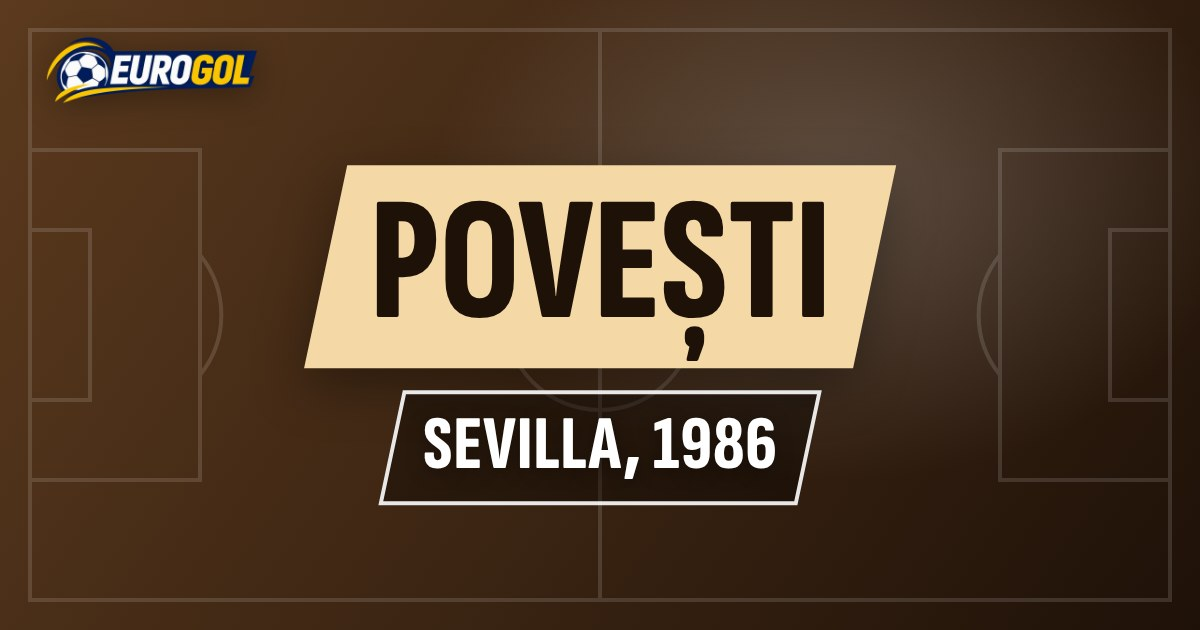
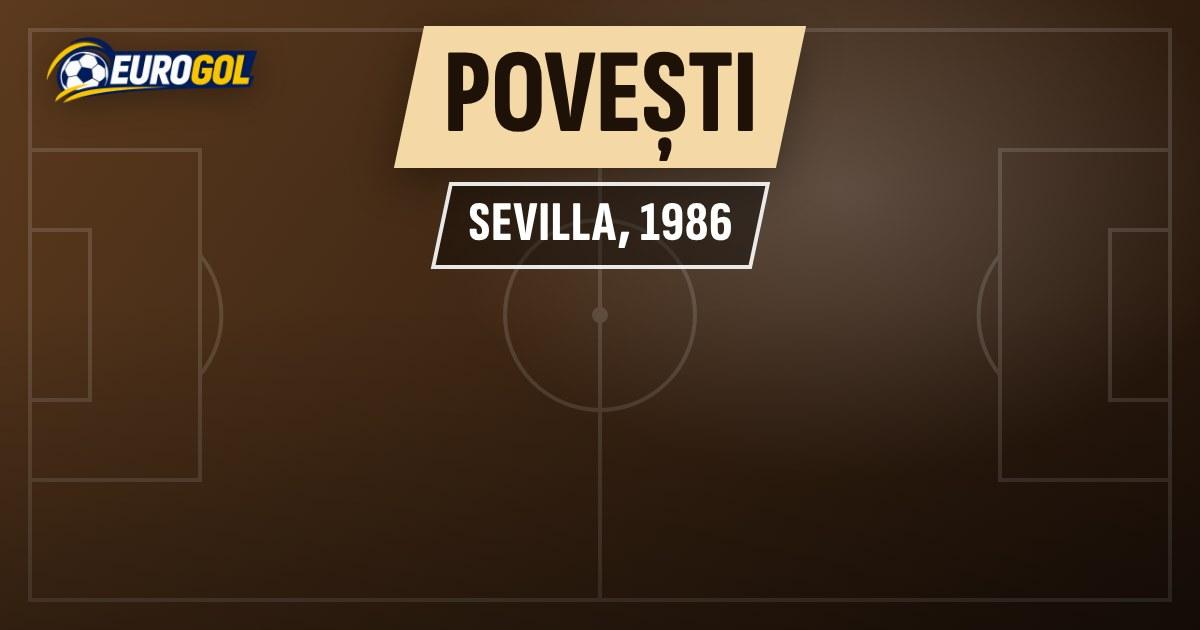
Tema 2.0.0: asezarea de pe mobil ca la sempremilan (titlul peste imagine 5:3, carduri-lista 5:4, Pe scurt dupa prima sectiune); coperti cu continutul in zona sigura (sus, la mijloc)

diff --git a/tema/eurogol/style.css b/tema/eurogol/style.css
@@ -3,7 +3,7 @@ Theme Name: Eurogol
 Theme URI: https://eurogol.ro
 Author: Eurogol
 Description: Tema site-ului eurogol.ro – fotbal românesc, european și sud-american. Prima pagină cu un articol mare și patru mai mici, secțiuni pe competiții, coloana „Pe scurt” și importul automat al articolelor din GitHub.
-Version: 1.9.0
+Version: 2.0.0
 Requires at least: 6.4
 Requires PHP: 7.4
 License: GNU General Public License v2 or later
@@ -105,26 +105,24 @@ button { font: inherit; cursor: pointer; }
 .eg-doua-coloane { display: grid; grid-template-columns: minmax(0, 2fr) minmax(0, 1fr); gap: 20px; margin-top: 20px; }
 .eg-doua-coloane:first-child { margin-top: 10px; }
 
-/* ---------- Blocul de sus: 1 mare + 4 ----------
-   Coperțile au text pe ele (rubrica, sigle, scor), deci imaginea apare întreagă, nedecupată,
-   iar titlul stă dedesubt, pe o bandă închisă – nu peste imagine. */
-.eg-sus { display: grid; grid-template-columns: 2fr 1fr 1fr; grid-template-rows: auto auto; gap: 10px; }
-.eg-coperta { position: relative; border-radius: var(--eg-raza); overflow: hidden; background: #0a1838; }
-.eg-coperta-mare { grid-row: span 2; }
-.eg-coperta > a { display: flex; flex-direction: column; height: 100%; color: #fff; }
-.eg-coperta-img { display: block; overflow: hidden; flex: none; }
-.eg-coperta .eg-img { display: block; width: 100%; height: auto; aspect-ratio: 1200 / 630; object-fit: cover; transition: transform .4s; }
+/* ---------- Blocul de sus: 1 mare + 4 (ca la sempremilan.com) ----------
+   Titlul stă peste imagine, pe un gradient închis. Coperțile au tot conținutul în jumătatea de sus, în mijloc,
+   deci nimic nu se acoperă (vezi unelte/coperta-stire.js, „zona sigură”). */
+.eg-sus { display: grid; grid-template-columns: 2fr 1fr 1fr; grid-template-rows: 1fr 1fr; gap: 10px; }
+.eg-coperta { position: relative; border-radius: var(--eg-raza); overflow: hidden; background: #0a1838; aspect-ratio: 5 / 3; }
+.eg-coperta-mare { grid-row: span 2; aspect-ratio: auto; }
+.eg-coperta > a { display: block; height: 100%; color: #fff; }
+.eg-coperta-img { position: absolute; inset: 0; overflow: hidden; }
+.eg-coperta .eg-img { position: absolute; inset: 0; width: 100%; height: 100%; object-fit: cover; object-position: center top; transition: transform .4s; }
 .eg-coperta:hover .eg-img { transform: scale(1.04); }
-.eg-coperta-text { flex: 1; display: flex; flex-direction: column; align-items: flex-start; gap: 5px; padding: 10px 12px 12px;
-	background: linear-gradient(180deg, #0f2250 0%, #0a1838 100%); border-top: 3px solid var(--eg-culoare); }
-.eg-coperta-titlu { font-weight: 600; font-size: 15px; line-height: 1.28;
+.eg-coperta > a::after { content: ""; position: absolute; inset: 0; background: linear-gradient(to top, rgba(0,0,0,.92) 0%, rgba(0,0,0,.6) 30%, rgba(0,0,0,.1) 55%, rgba(0,0,0,0) 65%); }
+.eg-coperta-text { position: absolute; left: 0; right: 0; bottom: 0; z-index: 1; padding: 10px 12px 12px; display: flex; flex-direction: column; align-items: flex-start; gap: 4px; }
+.eg-coperta-titlu { font-weight: 600; font-size: 15px; line-height: 1.25; text-shadow: 0 1px 3px rgba(0,0,0,.7);
 	display: -webkit-box; -webkit-box-orient: vertical; -webkit-line-clamp: 3; line-clamp: 3; overflow: hidden; }
-.eg-coperta-mare .eg-coperta-text { padding: 14px 18px 18px; gap: 8px; justify-content: center; }
-.eg-coperta-mare .eg-coperta-titlu { font-size: 30px; line-height: 1.2; -webkit-line-clamp: 4; line-clamp: 4; }
+.eg-coperta-mare .eg-coperta-text { padding: 16px 18px 20px; gap: 8px; }
+.eg-coperta-mare .eg-coperta-titlu { font-size: 26px; -webkit-line-clamp: 4; line-clamp: 4; }
 .eg-coperta .eg-meta, .eg-coperta .eg-meta .eg-autor { color: #fff; }
-.eg-coperta .eg-meta { opacity: .85; margin-top: auto; }
 .eg-coperta .eg-eticheta { font-size: 10px; padding: 2px 7px; }
-.eg-coperta a:hover .eg-coperta-titlu { color: #ffd23f; }
 
 /* Imaginea lipsă: fundal în culoarea site-ului cu numele lui. */
 .eg-img-gol { display: flex !important; align-items: center; justify-content: center; background: linear-gradient(135deg, var(--eg-culoare), var(--eg-inchis)); color: rgba(255,255,255,.35); aspect-ratio: 1200 / 630; width: 100%; }
@@ -137,15 +135,14 @@ button { font: inherit; cursor: pointer; }
 .eg-grila-2 { display: grid; grid-template-columns: repeat(2, minmax(0, 1fr)); gap: 20px; }
 .eg-card { background: var(--eg-alb); border-radius: var(--eg-raza); overflow: hidden; box-shadow: 0 1px 2px rgba(0,0,0,.04); }
 .eg-card-img { display: block; overflow: hidden; background: #ddd; }
-.eg-card-img .eg-img { width: 100%; aspect-ratio: 1200 / 630; object-fit: cover; transition: transform .4s; }
+.eg-card-img .eg-img { width: 100%; aspect-ratio: 5 / 3; object-fit: cover; object-position: center top; transition: transform .4s; }
 .eg-card:hover .eg-card-img .eg-img { transform: scale(1.04); }
 .eg-card-corp { padding: 10px; }
 .eg-card-titlu { font-weight: 600; }
 .eg-card-mare .eg-card-titlu { font-size: 20px; line-height: 1.33; margin: 4px 0 10px; }
 .eg-card-rezumat { margin: 0 0 6px; font-size: 14px; line-height: 1.4; color: var(--eg-text-2); }
-.eg-card-mic { display: grid; grid-template-columns: 150px minmax(0, 1fr); align-items: start; }
-.eg-card-mic .eg-card-img .eg-img { width: 100%; height: auto; aspect-ratio: 1200 / 630; object-fit: cover; }
-.eg-card-mic .eg-card-img { margin: 10px 0 10px 10px; border-radius: 4px; }
+.eg-card-mic { display: grid; grid-template-columns: 124px minmax(0, 1fr); align-items: start; }
+.eg-card-mic .eg-card-img .eg-img { width: 100%; height: auto; aspect-ratio: 5 / 4; object-fit: cover; object-position: center top; }
 .eg-card-mic .eg-img-gol span { font-size: 20px; }
 .eg-card-mic .eg-card-titlu { font-size: 14px; line-height: 1.2; margin-bottom: 8px; }
 .eg-meta { font-size: 12px; color: var(--eg-text-2); }
@@ -256,7 +253,7 @@ a.eg-eticheta:hover { color: #fff; background: var(--eg-inchis); }
 @media (max-width: 960px) {
 	.eg-doua-coloane { grid-template-columns: minmax(0, 1fr); }
 	.eg-sus { grid-template-columns: 1fr 1fr; grid-template-rows: auto; }
-	.eg-coperta-mare { grid-column: 1 / -1; grid-row: auto; }
+	.eg-coperta-mare { grid-column: 1 / -1; grid-row: auto; aspect-ratio: 5 / 3; }
 	.eg-cutie { margin-top: 0; border-radius: 0; }
 
 	/* Antetul pe mobil: meniu în stânga, logo la mijloc, căutare în dreapta. */
@@ -289,18 +286,24 @@ a.eg-eticheta:hover { color: #fff; background: var(--eg-inchis); }
 
 /* ---------- Telefon ---------- */
 @media (max-width: 600px) {
-	.eg-main { padding: 8px 8px 24px; }
-	.eg-sus { gap: 8px; }
-	.eg-coperta-mare .eg-coperta-titlu { font-size: 21px; }
-	.eg-coperta-mare .eg-coperta-text { padding: 12px 14px 14px; }
-	.eg-coperta:not(.eg-coperta-mare) .eg-coperta-titlu { font-size: 14px; }
+	.eg-main { padding: 10px 10px 24px; }
+	.eg-sus { gap: 4px; }
+	.eg-coperta-mare .eg-coperta-titlu { font-size: 20px; line-height: 1.2; -webkit-line-clamp: 3; line-clamp: 3; }
+	.eg-coperta-mare .eg-coperta-text { padding: 10px 14px 12px; gap: 4px; }
+	.eg-coperta-mare .eg-eticheta { display: none; }
+	.eg-coperta-mare .eg-meta { font-size: 12px; }
+	.eg-coperta:not(.eg-coperta-mare) .eg-coperta-titlu { font-size: 13px; line-height: 1.2; -webkit-line-clamp: 2; line-clamp: 2; }
 	.eg-coperta:not(.eg-coperta-mare) .eg-eticheta { display: none; }
-	.eg-coperta:not(.eg-coperta-mare) .eg-coperta-text { padding: 8px 10px 10px; }
+	.eg-coperta:not(.eg-coperta-mare) .eg-coperta-text { padding: 6px 8px 8px; gap: 2px; }
 	.eg-coperta:not(.eg-coperta-mare) .eg-meta { font-size: 11px; }
-	.eg-card-mic { grid-template-columns: 128px minmax(0, 1fr); }
-	.eg-grila-2 { grid-template-columns: minmax(0, 1fr); gap: 14px; }
+	.eg-grila-2 { grid-template-columns: minmax(0, 1fr); gap: 12px; }
 	.eg-card-mare .eg-card-titlu { font-size: 19px; }
-	.eg-titlu-sectiune { font-size: 21px; }
+	.eg-card-mare .eg-card-corp { padding: 12px 14px 14px; }
+	.eg-card-mic { grid-template-columns: 120px minmax(0, 1fr); }
+	.eg-card-mic .eg-card-titlu { font-size: 15px; line-height: 1.25; margin-bottom: 8px; }
+	.eg-card-mic .eg-card-corp { padding: 8px 10px; }
+	.eg-titlu-sectiune { font-size: 21px; margin-bottom: 14px; }
+	.eg-sectiune + .eg-sectiune { margin-top: 26px; }
 	.eg-articol { padding: 18px 16px 22px; }
 	.eg-articol-coperta { margin: 0 -16px 20px; }
 	.eg-articol-titlu { font-size: 26px; }
@@ -309,6 +312,13 @@ a.eg-eticheta:hover { color: #fff; background: var(--eg-inchis); }
 	.eg-text h2, .eg-text h3 { font-size: 20px; }
 	.eg-subsol-negru .eg-retele { margin-left: 0; }
 	.eg-404-scor { font-size: 84px; }
+	.eg-doar-desktop { display: none; }
+}
+/* „Pe scurt” apare pe telefon după prima secțiune (ca „Also in the news”), pe desktop în coloana din dreapta. */
+.eg-doar-mobil { display: none; }
+@media (max-width: 960px) {
+	.eg-doar-mobil { display: block; margin-top: 26px; }
+	.eg-coloana .eg-pe-scurt-bloc { display: none; }
 }
 
 @media (prefers-reduced-motion: reduce) {

diff --git a/unelte/coperta-stire.js b/unelte/coperta-stire.js
@@ -107,43 +107,35 @@ body { width: 1200px; height: 630px; overflow: hidden; color: #fff; font-family:
 .fundal { position: absolute; inset: 0; background-size: cover; background-position: center; filter: saturate(.85); }
 .fundal::after { content: ''; position: absolute; inset: 0; background: linear-gradient(125deg, ${c1}e6 0%, ${c2}cc 55%, ${c2}99 100%); }
 .marca { position: absolute; left: 44px; top: 36px; height: 70px; z-index: 3; filter: drop-shadow(0 6px 16px rgba(0,0,0,.35)); }
-.fata { position: absolute; left: -10px; bottom: 0; width: 600px; height: 600px; z-index: 1; }
-.dreapta { position: absolute; right: 56px; top: 50%; transform: translateY(-46%); z-index: 2; display: flex; flex-direction: column; align-items: flex-end; gap: 22px; max-width: ${fata ? 640 : 1000}px; }
-.rand-banda { display: flex; align-items: center; gap: 22px; }
-.emblema { width: 132px; height: 132px; flex: none; border-radius: 50%; background: #fff; display: flex; align-items: center; justify-content: center; box-shadow: 0 14px 34px rgba(0,0,0,.35); }
+.fata { position: absolute; left: 150px; top: 10px; width: 540px; height: 540px; z-index: 1; }
+/* ZONA SIGURĂ (după sempremilan.com pe mobil): titlul site-ului stă peste jumătatea de jos a imaginii,
+   iar miniaturile din liste (5:4) arată doar mijlocul (x 210–990). Tot conținutul stă sus, în mijloc: x 210–990, y 30–310. */
+.dreapta { position: absolute; left: 50%; top: 26px; transform: translateX(-50%); z-index: 2; display: flex; flex-direction: column; align-items: center; gap: 14px; width: 780px; }
+.cu-fata .dreapta { left: 600px; transform: none; width: 370px; top: 40px; }
+.rand-banda { display: flex; align-items: center; justify-content: center; gap: 16px; max-width: 100%; }
+.emblema { width: 92px; height: 92px; flex: none; border-radius: 50%; background: #fff; display: flex; align-items: center; justify-content: center; box-shadow: 0 10px 26px rgba(0,0,0,.35); }
 .emblema img { width: 74%; height: 74%; object-fit: contain; }
-.banda { font-weight: 800; font-size: 160px; line-height: .95; text-transform: uppercase; text-align: right; white-space: nowrap;
-	padding: 16px 44px 20px; background: ${accent}; color: ${c2}; transform: skewX(-12deg); box-shadow: 0 18px 50px rgba(0,0,0,.35); }
+.banda { font-weight: 800; font-size: 120px; line-height: .95; text-transform: uppercase; white-space: nowrap;
+	padding: 12px 34px 16px; background: ${accent}; color: ${c2}; transform: skewX(-12deg); box-shadow: 0 14px 40px rgba(0,0,0,.35); }
 .banda > span, .sub > span { display: inline-block; transform: skewX(12deg); }
-.sub { font-weight: 800; font-size: 68px; text-transform: uppercase; letter-spacing: 1px; text-shadow: 0 4px 18px rgba(0,0,0,.35);
-	background: rgba(0,0,0,.35); border: 4px solid rgba(255,255,255,.9); padding: 6px 28px 10px; transform: skewX(-12deg); }
-.cluburi { display: flex; align-items: center; gap: 26px; }
-.sigla { width: 196px; height: 196px; border-radius: 50%; background: rgba(255,255,255,.96); display: flex; align-items: center; justify-content: center; box-shadow: 0 14px 34px rgba(0,0,0,.35); }
+.sub { font-weight: 800; font-size: 56px; text-transform: uppercase; letter-spacing: 1px; white-space: nowrap;
+	background: rgba(0,0,0,.4); border: 4px solid rgba(255,255,255,.9); padding: 4px 24px 8px; transform: skewX(-12deg); }
+.cluburi { display: flex; align-items: center; justify-content: center; gap: 22px; }
+.sigla { width: 150px; height: 150px; border-radius: 50%; background: rgba(255,255,255,.96); display: flex; align-items: center; justify-content: center; box-shadow: 0 10px 26px rgba(0,0,0,.35); }
 .sigla img { width: 74%; height: 74%; object-fit: contain; }
-.scor { display: flex; gap: 10px; font-weight: 800; font-size: 128px; line-height: 1; }
-.scor span { background: rgba(0,0,0,.45); border: 3px solid rgba(255,255,255,.3); padding: 4px 22px 8px; }
-.vs { font-weight: 800; font-size: 80px; opacity: .85; }
-/* Cu sigle, ele vin primele (sus), banda dedesubt, mai mică. */
-.cu-cluburi .banda { font-size: 104px; padding: 12px 38px 16px; }
-.cu-cluburi .emblema { width: 108px; height: 108px; }
-.cu-cluburi .sub { font-size: 56px; }
-/* Fără portret: totul la mijloc și mai mare, ca să umple coperta (pe telefon cardurile sunt mici). */
-.centrat .dreapta { right: auto; left: 50%; transform: translate(-50%, -44%); align-items: center; max-width: 1080px; }
-.centrat .banda { font-size: 176px; }
-.centrat .sub { font-size: 76px; }
-.centrat .sigla { width: 230px; height: 230px; }
-.centrat .scor { font-size: 150px; }
-.centrat .emblema { width: 150px; height: 150px; }
-.centrat.cu-cluburi .banda { font-size: 116px; }
-.centrat.cu-cluburi .emblema { width: 118px; height: 118px; }
-.centrat .cluburi { gap: 34px; }
-/* Sigle + subtitlu: siglele se micșorează, ca banda să rămână mare. */
-.centrat.cu-cluburi.cu-sub .sigla { width: 168px; height: 168px; }
-.centrat.cu-cluburi.cu-sub .cluburi { gap: 26px; }
-.centrat.cu-cluburi.cu-sub .vs { font-size: 64px; }
-.centrat.cu-cluburi.cu-sub .banda { font-size: 104px; }
-.centrat.cu-cluburi.cu-sub .dreapta { gap: 16px; }
-</style></head><body class="${[cluburi.length ? 'cu-cluburi' : '', fata ? '' : 'centrat', d.subtitlu && !scor ? 'cu-sub' : ''].join(' ')}">
+.scor { display: flex; gap: 8px; font-weight: 800; font-size: 110px; line-height: 1; }
+.scor span { background: rgba(0,0,0,.5); border: 3px solid rgba(255,255,255,.35); padding: 2px 18px 6px; }
+.vs { font-weight: 800; font-size: 64px; opacity: .85; }
+.cu-cluburi .banda { font-size: 88px; padding: 8px 28px 12px; }
+.cu-cluburi .emblema { width: 78px; height: 78px; }
+.cu-cluburi .sub { font-size: 46px; }
+.cu-cluburi.cu-sub .sigla { width: 120px; height: 120px; }
+.cu-cluburi.cu-sub .banda { font-size: 72px; }
+.cu-fata .sigla { width: 110px; height: 110px; }
+/* jos: doar fundalul, peste care site-ul pune titlul; o umbră discretă ca textul alb să se citească */
+.umbra { position: absolute; left: 0; right: 0; bottom: 0; height: 52%; z-index: 1; background: linear-gradient(to top, rgba(0,0,0,.35), transparent); }
+</style></head><body class="${[cluburi.length ? 'cu-cluburi' : '', fata ? 'cu-fata' : '', d.subtitlu && !scor ? 'cu-sub' : ''].join(' ')}">
+<div class="umbra"></div>
 ${fundal ? `<div class="fundal" style="background-image:url(${fundal})"></div>` : ''}
 <svg class="teren" viewBox="0 0 1200 630" xmlns="http://www.w3.org/2000/svg" fill="none" stroke="#fff" stroke-width="4">
 	<rect x="30" y="30" width="1140" height="570"/><line x1="600" y1="30" x2="600" y2="600"/>
@@ -206,14 +198,28 @@ ${teren}
 	if (!d.cu_titlu) await page.evaluate(() => {
 		const b = document.querySelector('.banda');
 		const start = parseInt(getComputedStyle(b).fontSize, 10);
-		const stanga = document.querySelector('.fata') ? 560 : 50; // banda nu intră peste portret
 		const bloc = document.querySelector('.dreapta');
 		const sub = document.querySelector('.sub');
-		for (let px = start; px >= 56; px -= 4) {
+		const [x0, x1] = document.querySelector('.fata') ? [590, 960] : [215, 985];
+		const sigle = [...document.querySelectorAll('.sigla')];
+		const incape = () => {
+			const r = document.querySelector('.rand-banda').getBoundingClientRect(), z = bloc.getBoundingClientRect(), u = sub ? sub.getBoundingClientRect() : r;
+			return r.left >= x0 && r.right <= x1 && u.left >= x0 && u.right <= x1 && z.bottom <= 284;
+		};
+		// 1) banda până la 72px; 2) apoi siglele, până la 84px; 3) abia apoi banda mai mică.
+		let px = start;
+		for (; px >= 72; px -= 4) {
 			b.style.fontSize = px + 'px';
-			if (sub) sub.style.fontSize = Math.max(50, Math.min(parseInt(getComputedStyle(sub).fontSize, 10), Math.round(px * 0.62))) + 'px';
-			const r = b.getBoundingClientRect(), z = bloc.getBoundingClientRect();
-			if (r.left >= stanga && r.right <= 1160 && z.top >= 110 && z.bottom <= 605) break;
+			if (sub) sub.style.fontSize = Math.max(34, Math.min(56, Math.round(px * 0.6))) + 'px';
+			if (incape()) break;
+		}
+		for (let m = sigle.length ? sigle[0].getBoundingClientRect().width : 0; !incape() && m >= 84; m -= 8) {
+			sigle.forEach((x) => { x.style.width = x.style.height = m + 'px'; });
+			const scor = document.querySelector('.scor'); if (scor) scor.style.fontSize = Math.round(m * 0.72) + 'px';
+		}
+		for (; !incape() && px >= 40; px -= 4) {
+			b.style.fontSize = px + 'px';
+			if (sub) sub.style.fontSize = Math.max(34, Math.min(56, Math.round(px * 0.6))) + 'px';
 		}
 	});
 	// Coperta cu titlu: cea mai mare mărime la care titlul încape în cel mult 5 rânduri și nu atinge rândul de jos.

diff --git a/tema/eurogol/inc/carduri.php b/tema/eurogol/inc/carduri.php
@@ -158,7 +158,7 @@ function eg_sectiune( $slugs, $titlu, $exclude = array() ) {
 }
 
 /** Lista „Pe scurt”: ultimele articole, cu ora (azi) sau ziua. */
-function eg_pe_scurt( $numar = 8 ) {
+function eg_pe_scurt( $numar = 8, $clasa = 'eg-pe-scurt-bloc' ) {
 	$q = new WP_Query(
 		array(
 			'posts_per_page'      => $numar,
@@ -169,7 +169,7 @@ function eg_pe_scurt( $numar = 8 ) {
 	if ( ! $q->have_posts() ) {
 		return;
 	}
-	echo '<section class="eg-bloc"><h2 class="eg-titlu-sectiune">Pe scurt</h2><ol class="eg-pe-scurt">';
+	echo '<section class="eg-bloc ' . esc_attr( $clasa ) . '"><h2 class="eg-titlu-sectiune">Pe scurt</h2><ol class="eg-pe-scurt">';
 	foreach ( $q->posts as $p ) {
 		echo '<li><time datetime="' . esc_attr( get_the_date( 'c', $p ) ) . '">' . esc_html( eg_ora_sau_zi( $p ) ) . '</time><a href="' . esc_url( get_permalink( $p ) ) . '">' . esc_html( get_the_title( $p ) ) . '</a></li>';
 	}

diff --git a/tema/eurogol/front-page.php b/tema/eurogol/front-page.php
@@ -29,8 +29,11 @@ $vazute = wp_list_pluck( $sus->posts, 'ID' );
 <div class="eg-doua-coloane">
 	<div class="eg-continut">
 		<?php
-		foreach ( eg_sectiuni() as $s ) {
+		foreach ( eg_sectiuni() as $k => $s ) {
 			$vazute = array_merge( $vazute, eg_sectiune( $s[0], $s[1], $vazute ) );
+			if ( 0 === $k ) {
+				eg_pe_scurt( 6, 'eg-doar-mobil' ); // pe telefon, după prima secțiune
+			}
 		}
 
 		// La final, tot ce n-a apărut încă: cele mai noi articole, din toate categoriile.

diff --git a/tema/eurogol/functions.php b/tema/eurogol/functions.php
@@ -6,7 +6,7 @@
 
 defined( 'ABSPATH' ) || exit;
 
-define( 'EG_VERSIUNE', '1.9.0' );
+define( 'EG_VERSIUNE', '2.0.0' );
 define( 'EG_DIR', get_template_directory() );
 define( 'EG_URI', get_template_directory_uri() );
 
